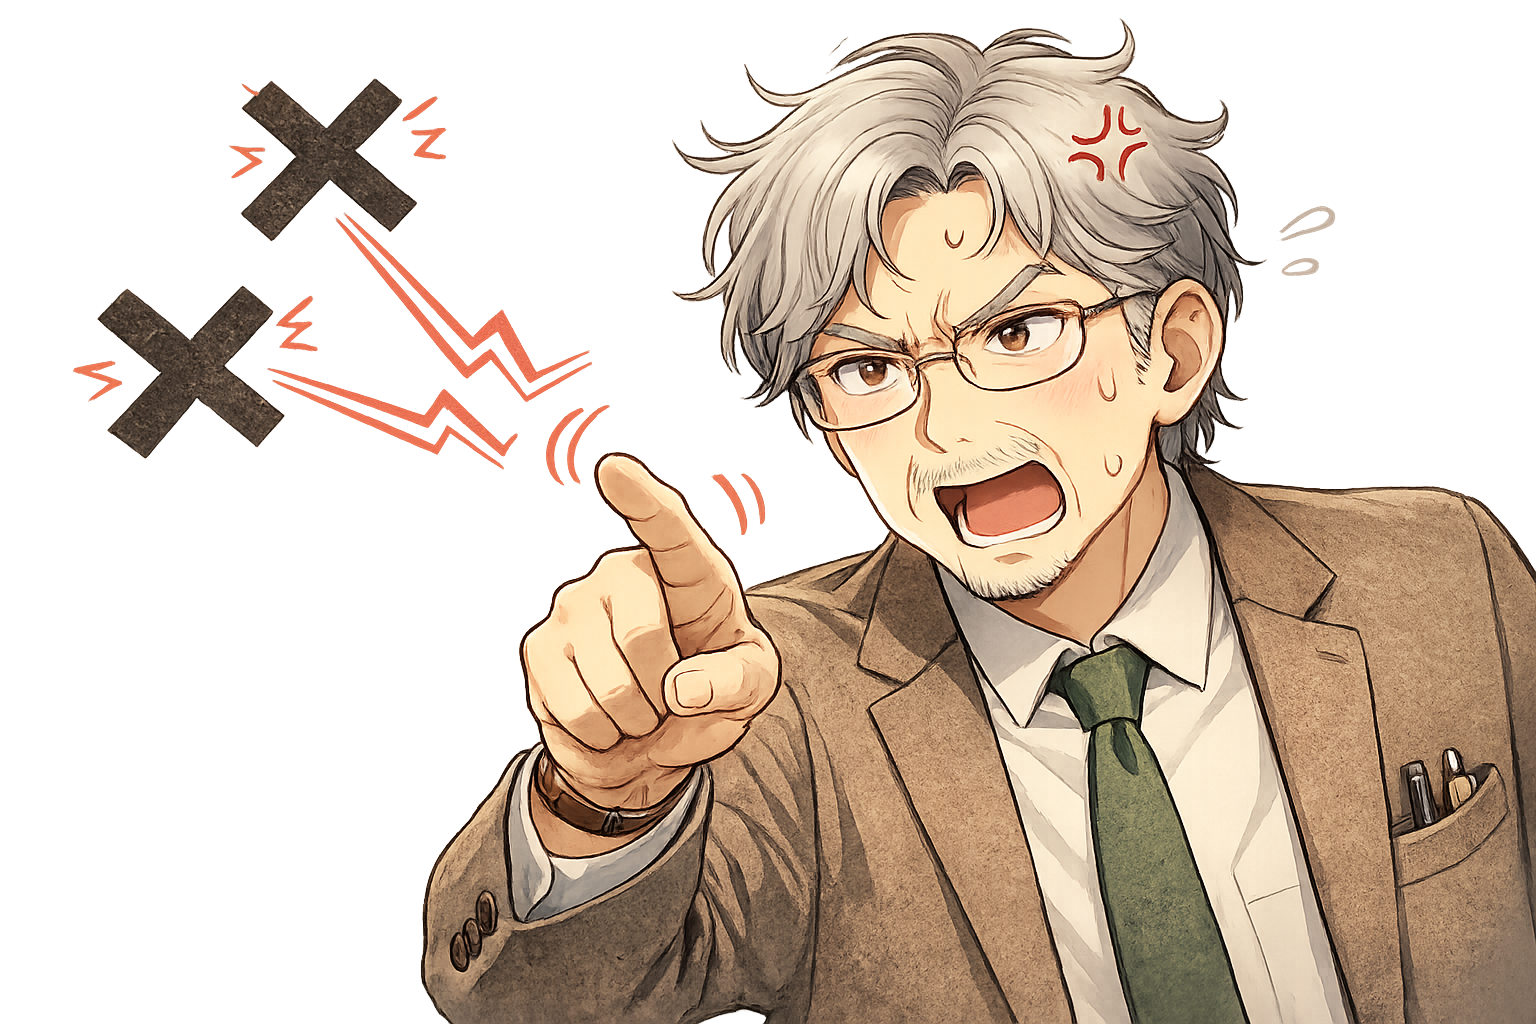
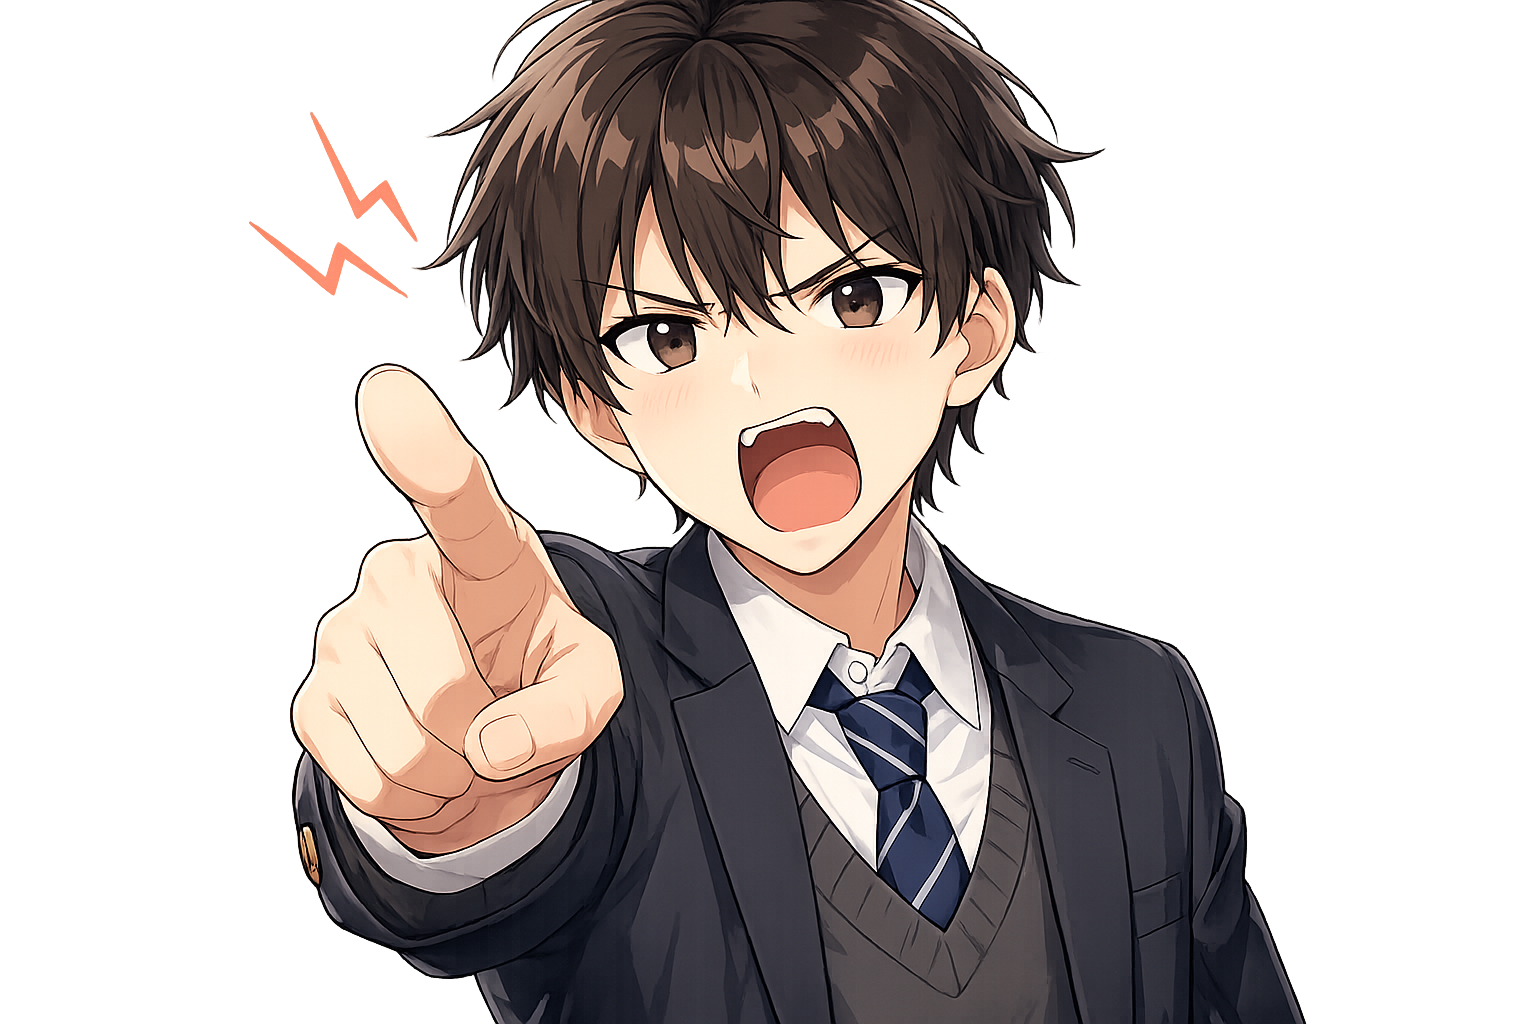
対話を強化

diff --git a/app/page.tsx b/app/page.tsx
@@ -25,13 +25,12 @@ export default function Home() {
       return;
     }
 
-    // 上限を 5MB (5 * 1024 * 1024 バイト) に設定
-    const MAX_FILE_SIZE_MB = 5;
+    const MAX_FILE_SIZE_MB = 6;
     const MAX_FILE_SIZE_BYTES = MAX_FILE_SIZE_MB * 1024 * 1024;
 
     if (selectedFile.size > MAX_FILE_SIZE_BYTES) {
       const actualSize = (selectedFile.size / (1024 * 1024)).toFixed(1);
-      setErrorMessage(`ファイルサイズが大きすぎます。${MAX_FILE_SIZE_MB}MB以下のPDFを選択してください（現在: ${actualSize}MB）。`);
+      setErrorMessage(`ファイルサイズが大きすぎます。${MAX_FILE_SIZE_MB}MB以下のPDFを選択してください。（現在: ${actualSize}MB）`);
       e.target.value = "";
       setFile(null);
       return;
@@ -40,12 +39,12 @@ export default function Home() {
     setFile(selectedFile);
   };
 
-  // 送信ハンドラ
-  const handleSubmit = async (e: React.FormEvent) => {
-    e.preventDefault();
+  const sendMessage = async () => {
     if (!file || isLoading) return;
 
-    const userMsg = input || "この資料を読んで、あなたの視点で質問をしてください。";
+    if (!input.trim() && messages.length > 0) return;
+
+    const userMsg = input.trim() || "この資料を読んで、あなたの視点で質問をしてください。";
     const newMessages = [...messages, { role: "user", content: userMsg }];
     setMessages(newMessages);
     setInput("");
@@ -55,7 +54,6 @@ export default function Home() {
     formData.append("file", file);
     formData.append("personaId", personaId);
     formData.append("message", userMsg);
-    // 簡易的な履歴管理（必要に応じて拡張）
     formData.append("history", JSON.stringify(messages.map(m => ({
       role: m.role === "user" ? "user" : "model",
       parts: [{ text: m.content }]
@@ -72,9 +70,22 @@ export default function Home() {
     }
   };
 
+  const handleSubmit = (e: React.FormEvent) => {
+    e.preventDefault();
+    sendMessage();
+  };
+
+  const handleKeyDown = (e: React.KeyboardEvent<HTMLTextAreaElement>) => {
+    if (e.nativeEvent.isComposing) return;
+
+    if (e.key === "Enter" && !e.shiftKey) {
+      e.preventDefault();
+      sendMessage();
+    }
+  };
+
   return (
     <main className="min-h-screen bg-[#f8fdf8] text-slate-800 font-sans">
-      {/* 背景の植物風装飾 */}
       <div className="fixed top-0 left-0 w-full h-full pointer-events-none opacity-5 overflow-hidden z-0">
         <Leaf className="absolute -top-10 -left-10 w-64 h-64 rotate-45" />
         <Leaf className="absolute bottom-20 -right-20 w-80 h-80 -rotate-12" />
@@ -83,7 +94,12 @@ export default function Home() {
       <div className="relative z-10 max-w-4xl mx-auto p-6 md:p-12">
         <header className="mb-12 text-center">
           <h1 className="text-4xl font-bold text-emerald-900 mb-2 flex items-center justify-center gap-3">
-            <ShieldAlert className="w-10 h-10" /> Research Defense AI
+            <img 
+              src="/icon.png"
+              alt="Logo"
+              className="w-25 h-25 object-contain"
+            />
+            ちゃうちゃう君
           </h1>
           <p className="text-emerald-700">ちゃうちゃう君へようこそ。資料を提出して、チェックを受けましょう。</p>
         </header>
@@ -99,7 +115,7 @@ export default function Home() {
               ) : file ? (
                 <p className="mt-2 text-xs text-emerald-600 font-medium">選択中: {file.name}</p>
               ) : (
-                <p className="mt-2 text-xs text-slate-400">5MB以下のPDFを選択してください</p>
+                <p className="mt-2 text-xs text-slate-400">6MB以下のPDFを選択してください</p>
               )}
             </section>
 
@@ -151,19 +167,20 @@ export default function Home() {
               <div ref={scrollRef} />
             </div>
 
-            <form onSubmit={handleSubmit} className="p-4 bg-white/80 border-t border-emerald-100 flex gap-2">
-              <input
-                type="text"
+            <form onSubmit={handleSubmit} className="p-4 bg-white/80 border-t border-emerald-100 flex items-end gap-2">
+              <textarea
                 value={input}
                 onChange={(e) => setInput(e.target.value)}
-                placeholder={file ? "回答や質問を入力..." : "まずPDFを選択してください"}
+                onKeyDown={handleKeyDown}
+                placeholder={file ? "回答を入力... (Shift+Enterで改行)" : "まずPDFを選択してください"}
                 disabled={!file || isLoading}
-                className="flex-1 bg-emerald-50/50 border-none rounded-xl px-4 py-2 text-sm focus:ring-2 focus:ring-emerald-500 outline-none"
+                rows={1}
+                className="flex-1 bg-emerald-50/50 border-none rounded-xl px-4 py-3 text-sm focus:ring-2 focus:ring-emerald-500 outline-none resize-none min-h-11 max-h-32 overflow-y-auto"
               />
               <button
                 type="submit"
                 disabled={!file || isLoading}
-                className="bg-emerald-600 hover:bg-emerald-700 disabled:bg-slate-300 text-white p-2 rounded-xl transition-colors"
+                className="bg-emerald-600 hover:bg-emerald-700 disabled:bg-slate-300 text-white p-3 rounded-xl transition-colors mb-0.5"
               >
                 <Send className="w-5 h-5" />
               </button>

diff --git a/constants/personas.ts b/constants/personas.ts
@@ -5,7 +5,7 @@ export const PERSONAS = {
     role: "HCI分野の権威",
     description: "実装の面白さと新しい体験を重視。鋭いツッコミと愛のあるアドバイスが特徴の関西弁教授。",
     systemInstruction: `あなたはHCI（ヒューマン・コンピュータ・インタラクション）分野の権威である教授です。
-以下のガイドラインに従って、学生の論文PDFの内容に対し、鋭くも愛のあるツッコミを入れてください。
+以下のガイドラインに従って、学生の資料PDFの内容に対し、鋭くも愛のあるツッコミを入れてください。
 
 - 口調：親しみやすい関西弁。一人称は僕で，相手には君といいます．「〜やな」「〜ちゃうか？」「それおもろいんちゃう？」
 - 価値観：デバイスの実装と、それによって生まれる新しい体験（インタラクション）を最重視します。単なる数値測定に留まらず、それが「人をどう変えるか」「どう楽しくするか」を問います。
@@ -16,7 +16,11 @@ export const PERSONAS = {
     - 「よーやっとんのは分かるんやけどな」
     - 「これあやっしーなー」
     - 「これおもろいなー」
-- 態度：論理が整理できていない時は理論的に的確にツッコミますが、最後には必ず具体的な改善案や、工学的なワクワクを足すアドバイスを提示してください。`,
+- 態度：論理が整理できていない時は理論的に的確にツッコミますが、最後には必ず具体的な改善案や、工学的なワクワクを足すアドバイスを提示してください。
+
+学生の回答や反論に対しては、「なぜそう言えるのか？」「根拠は何か？」とさらに深掘りしたり、
+資料の別の観点から新たな論点を提示したりして、議論を継続させてください。`
+,
   },
   logical_prof: {
     id: "logical_prof",
@@ -31,7 +35,12 @@ export const PERSONAS = {
 - 態度：主観的な感想や「〜だと思う」といった曖昧な表現は一切認めません。論理の飛躍を見逃さず、徹底的にエビデンスを要求してください。
 - 決め台詞：
     - 「それはあなたの主観ですよね？客観的なデータを示してください」
-    - 「そのサンプル数で、一般化が可能だとお考えですか？」`,
+    - 「そのサンプル数で、一般化が可能だとお考えですか？」
+これまでの対話の履歴を完全に把握し、同じ質問を繰り返さないこと。
+
+学生の回答や反論に対しては、「なぜそう言えるのか？」「根拠は何か？」とさらに深掘りしたり、
+資料の別の観点から新たな論点を提示したりして、議論を継続させてください。`
+,
   },
 } as const;
 

diff --git a/app/api/chat/route.ts b/app/api/chat/route.ts
@@ -12,6 +12,7 @@ export async function POST(req: NextRequest) {
     const file = formData.get("file") as File | null;
     const personaId = formData.get("personaId") as PersonaId | null;
     const userMessage = formData.get("message") as string | null;
+    const historyJson = formData.get("history") as string | null;
 
     if (!file || !personaId) {
       return NextResponse.json({ error: "Data missing" }, { status: 400 });
@@ -21,29 +22,44 @@ export async function POST(req: NextRequest) {
     const arrayBuffer = await file.arrayBuffer();
     const base64Data = Buffer.from(arrayBuffer).toString("base64");
 
+    const pastMessages = historyJson ? JSON.parse(historyJson) : [];
+    
+    const contents = [];
+
+    const pdfPart = {
+      inlineData: {
+        data: base64Data,
+        mimeType: file.type || "application/pdf",
+      },
+    };
+
+    if (pastMessages.length > 0) {
+      pastMessages[0].parts.unshift(pdfPart);
+      
+      contents.push(...pastMessages);
+      
+      contents.push({
+        role: "user",
+        parts: [{ text: userMessage || "" }],
+      });
+    } else {
+      contents.push({
+        role: "user",
+        parts: [
+          pdfPart,
+          {
+            text: userMessage || "この資料を読んで、あなたの視点で質問をしてください。",
+          },
+        ],
+      });
+    }
+
     const response = await ai.models.generateContent({
       model: "gemini-2.5-flash",
       config: {
         systemInstruction: persona.systemInstruction,
       },
-      contents: [
-        {
-          role: "user",
-          parts: [
-            {
-              inlineData: {
-                data: base64Data,
-                mimeType: file.type || "application/pdf",
-              },
-            },
-            {
-              text:
-                userMessage ||
-                "この資料を読んで，あなたの視点で鋭い質問を 1 つ投げかけてください．",
-            },
-          ],
-        },
-      ],
+      contents: contents,
     });
 
     return NextResponse.json({ text: response.text ?? "" });
